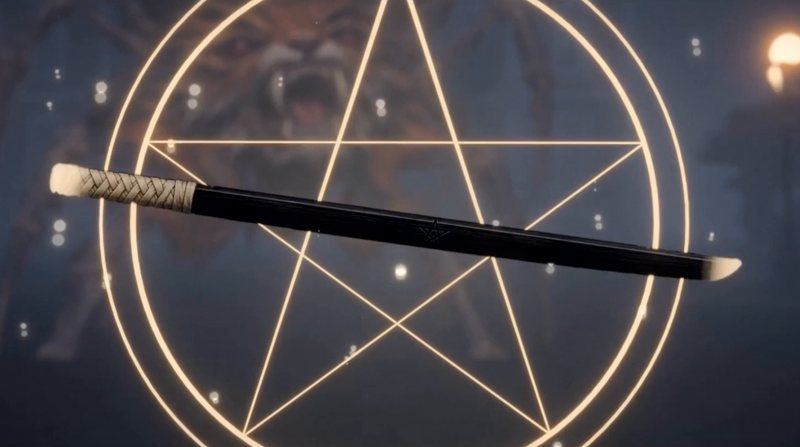
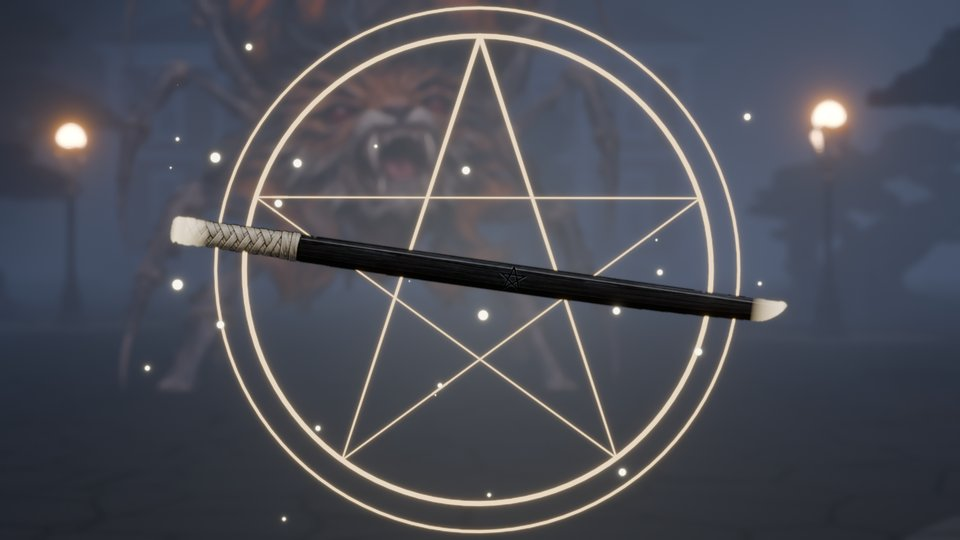
破魔の剣の画像を字幕なしのBlenderレンダーに差し替え
Claude-Session: https://claude.ai/code/session_01GznJ74Y62rxPGqjWbqGWhy

diff --git a/index.html b/index.html
@@ -453,9 +453,9 @@
         <span class="ruby">はまのつるぎ</span><h3>破魔の剣</h3>
         <p>五芒星が刻まれた黒い木刀。灯真が呼びかけると、皮が剥がれるように光り輝く刀身が現れ、焔を噴き上げる。その焔は、喰らった魂を引き剥がし、怨を祓い、魔を滅する。</p>
         <div class="gallery">
-          <figure><img src="hogu/hama1.jpg" alt="五芒星の中に現れた、黒い木刀の破魔の剣" loading="lazy"><figcaption>木刀</figcaption></figure>
-          <figure><img src="hogu/hama2.jpg" alt="五芒星が刻まれた、光り輝く破魔の剣の刀身" loading="lazy"><figcaption>刀身</figcaption></figure>
-          <figure><img src="hogu/hama3.jpg" alt="灯真の手で青い焔を噴き上げる破魔の剣" loading="lazy"><figcaption>焔</figcaption></figure>
+          <figure><img src="hogu/hama1.jpg?v=2" alt="五芒星の中に現れた、黒い木刀の破魔の剣" loading="lazy"><figcaption>木刀</figcaption></figure>
+          <figure><img src="hogu/hama2.jpg?v=2" alt="五芒星が刻まれた、光り輝く破魔の剣の刀身" loading="lazy"><figcaption>刀身</figcaption></figure>
+          <figure><img src="hogu/hama3.jpg?v=2" alt="灯真の手で青い焔を噴き上げる破魔の剣" loading="lazy"><figcaption>焔</figcaption></figure>
         </div>
       </article>
       <article class="item reveal">
